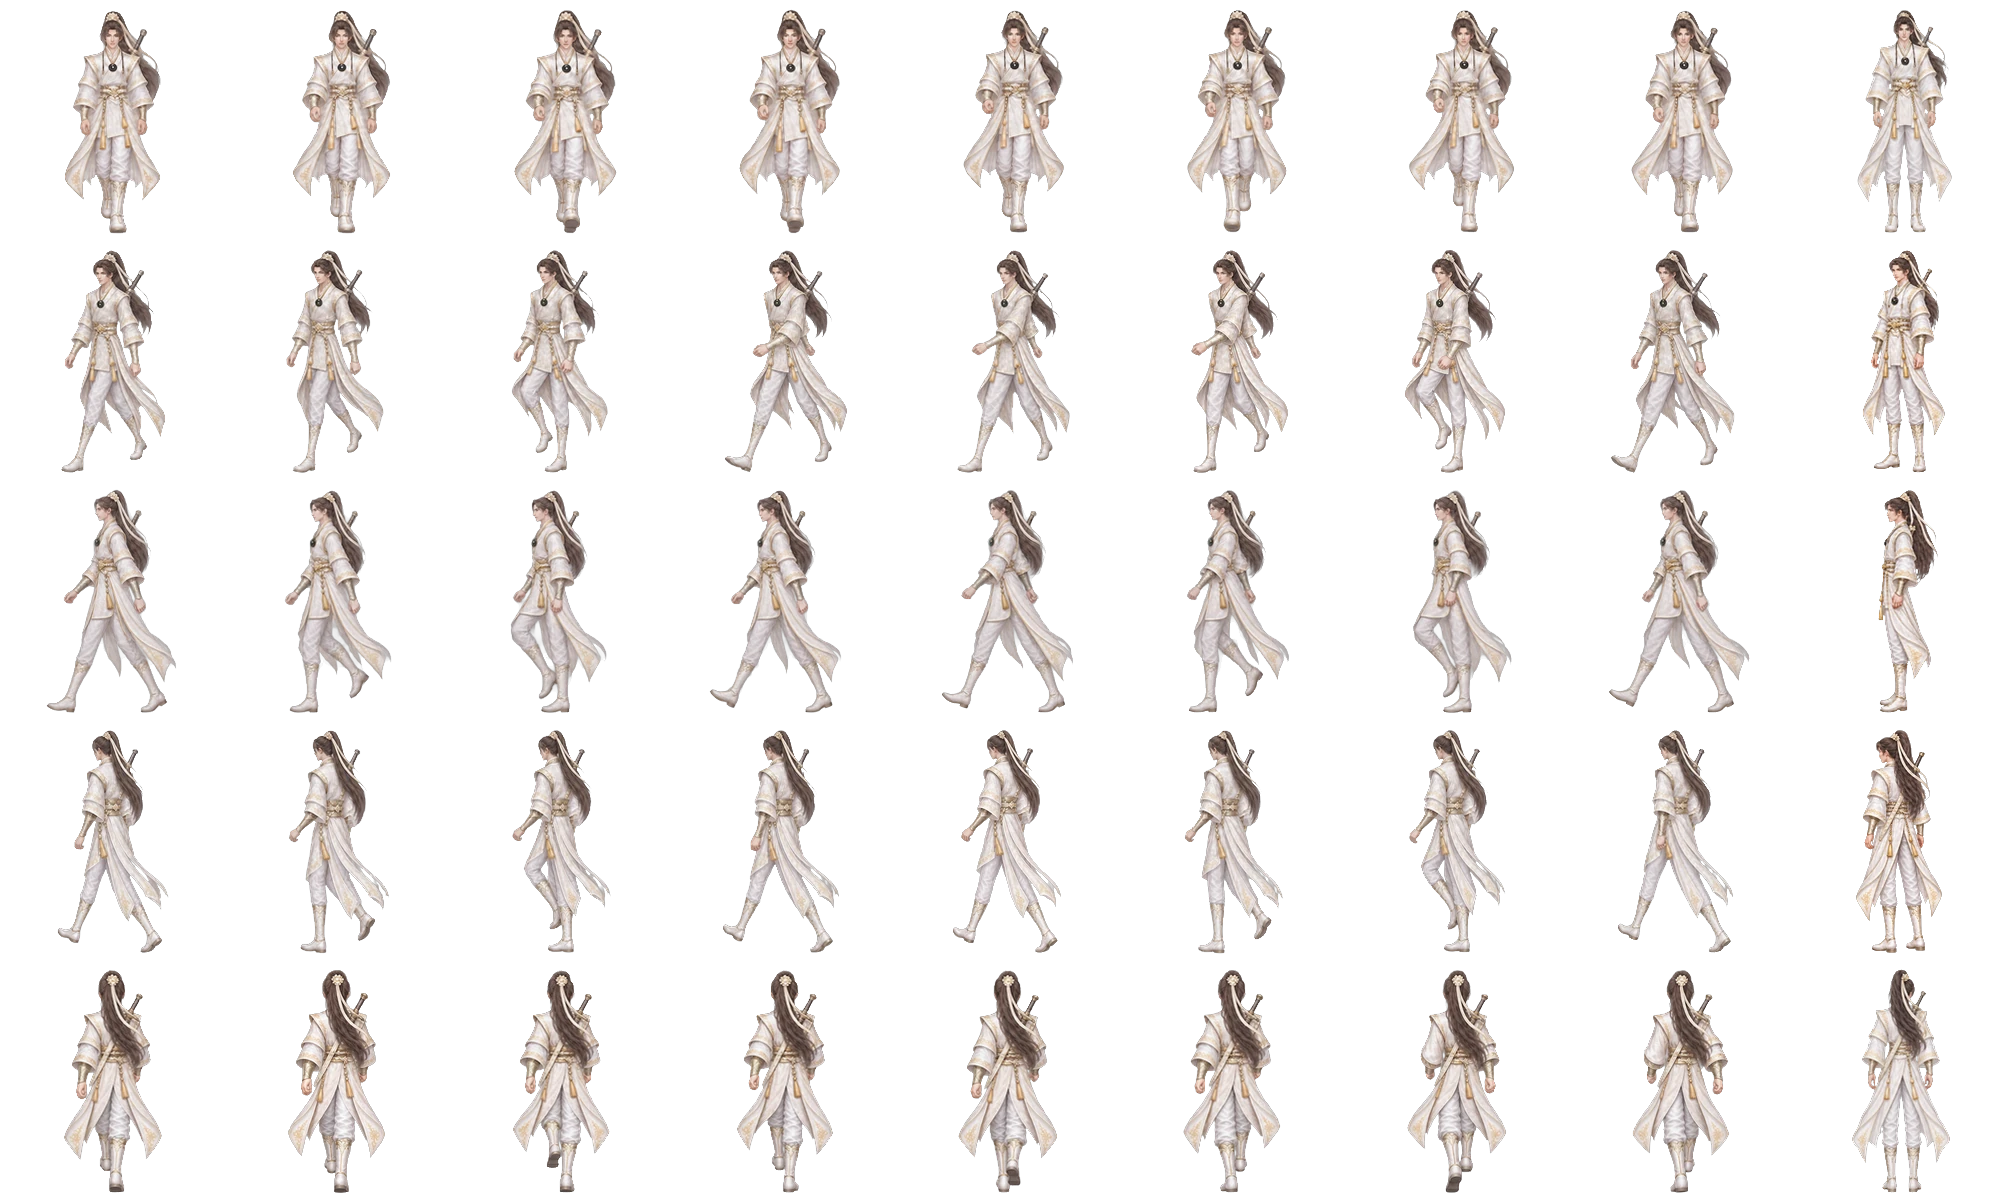
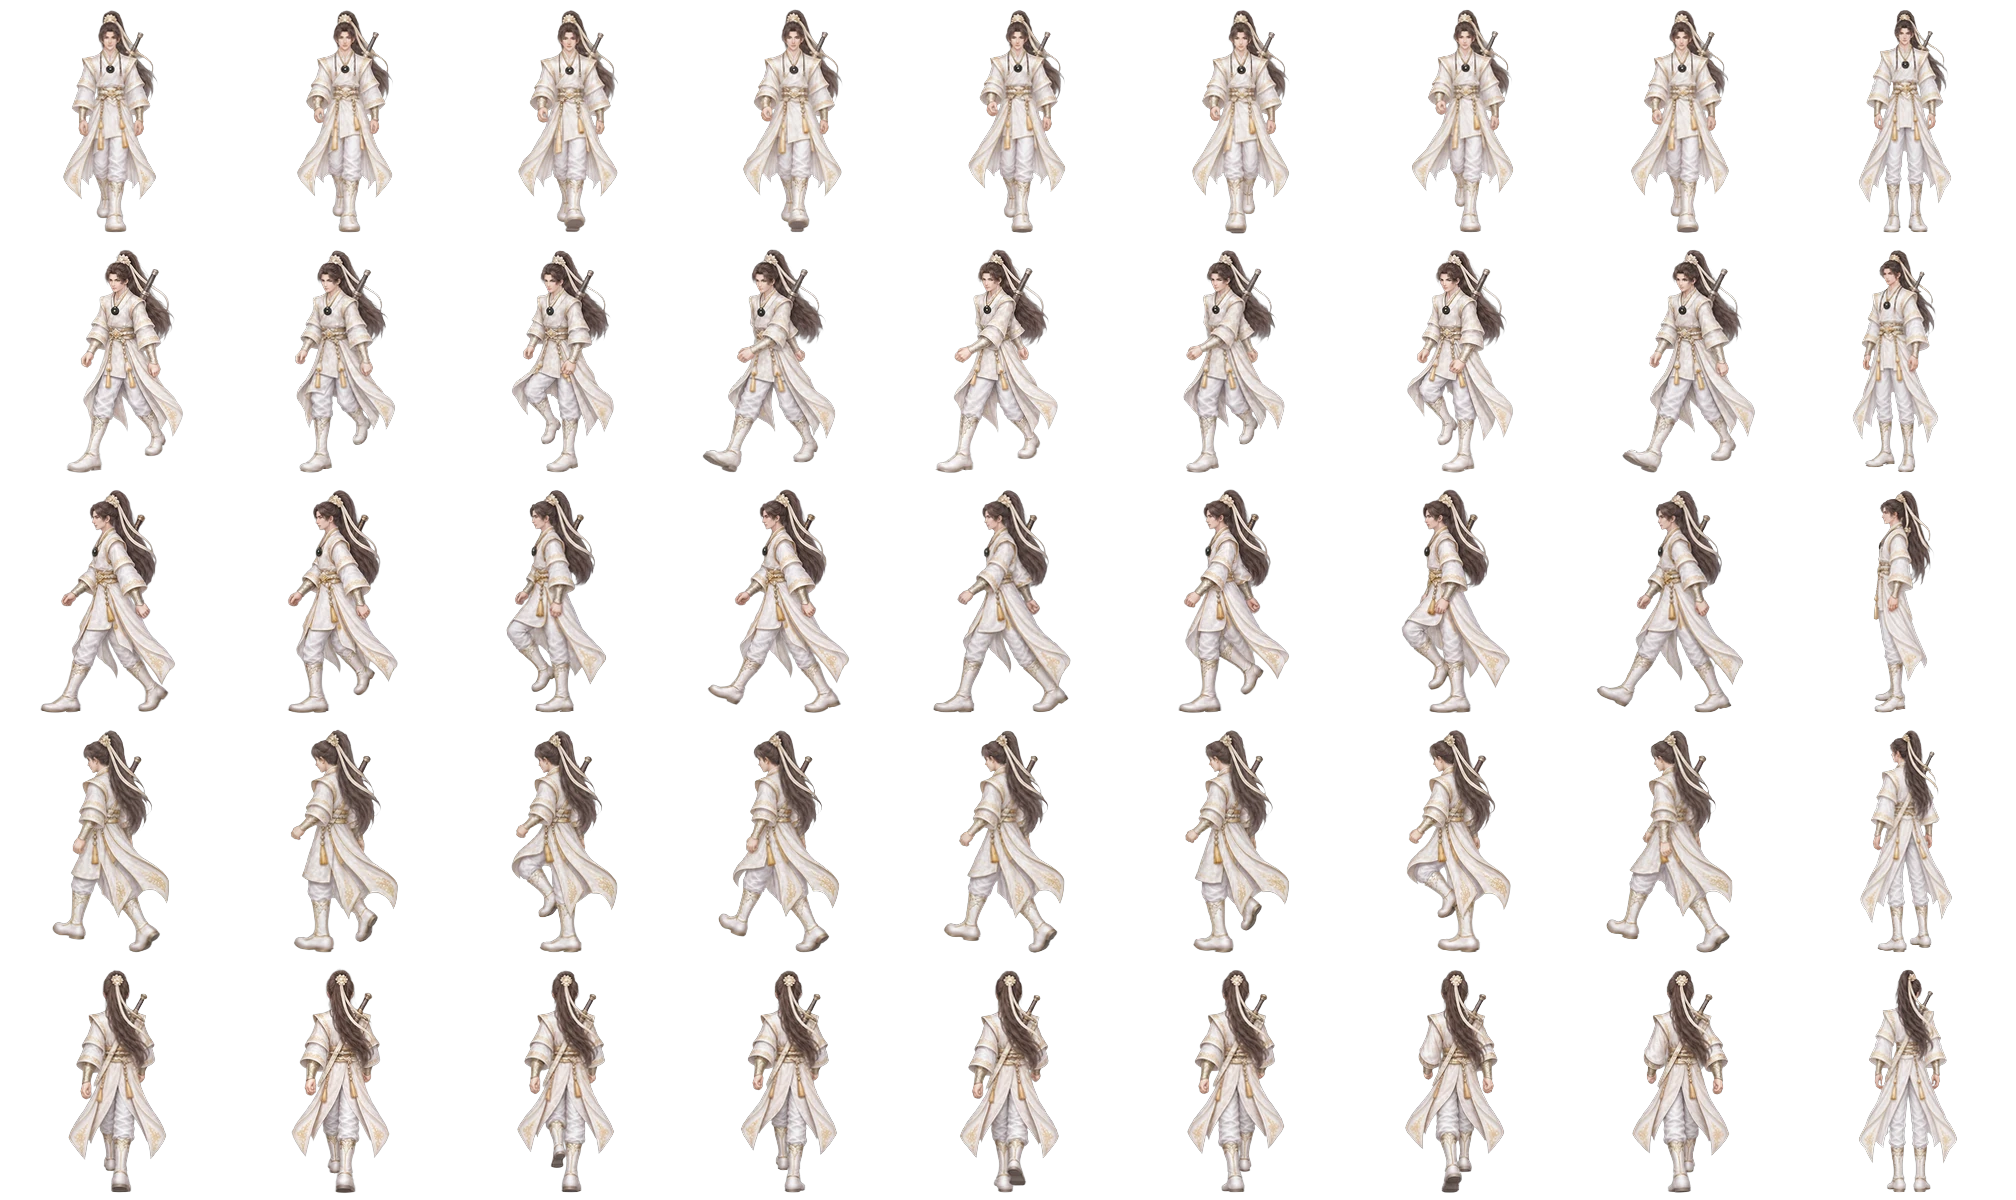
v367: 孤星白衣、天剑少主换成 Codex 宽靴版（初版走步 + 放宽靴子），同样按脚底等比校正头顶高度；天剑少主左向第4帧去掉一块飘在头顶的碎片
Claude-Session: https://claude.ai/code/session_01MLmwgsq8MPeyfrTaz8BRE2

diff --git a/game/r97_walk8.js b/game/r97_walk8.js
@@ -6,7 +6,7 @@
   const LOC = window.FORCE_LOCAL || /^(localhost|127\.0\.0\.1|appassets\.local)$|\.github\.io$/.test(location.hostname) || location.protocol === 'file:';
   // 11-03 Codex 又给五套换装各画了一套八向行走：跟着「换装」走，原版劲装用最早那套
   const SHEETS = { orig: ['yegx_walk8', '5a332df968af88119ab41a77711c40e7'], baipao: ['yegx_w5_baipao', '73e66572017cf3af45d6e8dfef453f0c'], heiyao: ['yegx_w5_heiyao', 'dd079c113bc2776825f96148be355185'],
-    jiaoling: ['yegx_w5_jiaoling', '2cdfe941cf6d1ff0475e81f67a528807'], guxing: ['yegx_w5_guxing', 'a49d2fea9cb239f71087352f6b65da10'], tianjian: ['yegx_w5_tianjian', '8b15ee8ab6fb3ebf0ea47d685a1e160b'] };
+    jiaoling: ['yegx_w5_jiaoling', '2cdfe941cf6d1ff0475e81f67a528807'], guxing: ['yegx_w5_guxing', '0b44fe1458b78416549740d708403c97'], tianjian: ['yegx_w5_tianjian', '0a1e05eb218f471964f1e0a1480f30c2'] };
   const PICS = {};
   const pic = k => { if (!PICS[k]) { const m = new Image(); m.ok = false; m.onload = () => { m.ok = true; }; m.src = LOC ? 'walk8/' + SHEETS[k][0] + '.webp' : '/_blob/' + SHEETS[k][1]; PICS[k] = m; } return PICS[k]; };
   const im0 = pic('orig'); let ok = false; im0.addEventListener('load', () => { ok = true; });
